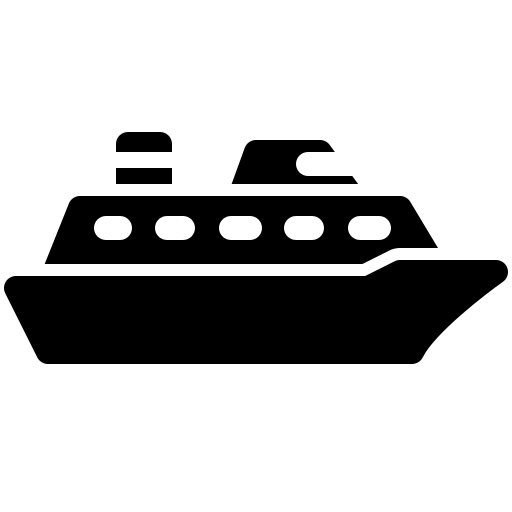
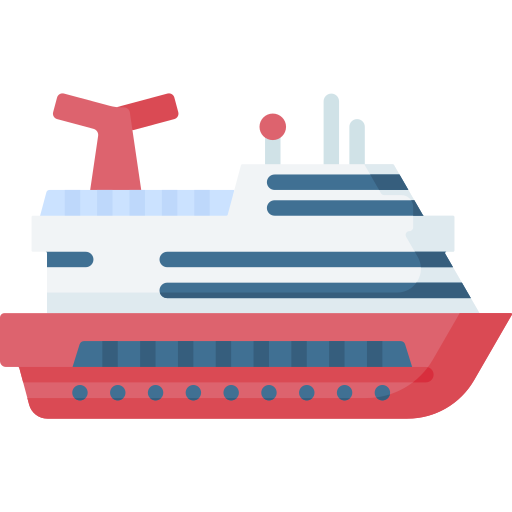
se agrega imagen

diff --git a/src/view/JuegoVsComputadora/JuegoVsComputadora.jsx b/src/view/JuegoVsComputadora/JuegoVsComputadora.jsx
@@ -9,6 +9,11 @@ import BarcoForm from "../../components/BarcoForm.jsx";
 import BotonListo from "../../components/BotonList.jsx";
 import {letras, numeros, letrasBarco} from "../../utils/constantes.js";
 import {determinarColorCelda, determinarColorCeldaOculta, ocultarTablero} from "../../utils/utils.js";
+import Lancha from "../../static/lancha.png";
+import Submarino from "../../static/submarino.png";
+import Crucero from "../../static/crucero.png";
+import Portaaviones from "../../static/portaaviones.png";
+import ImagenBarco from "../../components/ImagenBarco.jsx";
 
 const JuegoVsComputadora = () => {
     const juego = useMemo(() => new Juego(), []);
@@ -149,6 +154,10 @@ const JuegoVsComputadora = () => {
     return (
         <>
             <HeaderNavigation />
+            <ImagenBarco src={Portaaviones} alt="Portaaviones" />
+            <ImagenBarco src={Crucero} alt="Crucero" />
+            <ImagenBarco src={Submarino} alt="Submarino" />
+            <ImagenBarco src={Lancha} alt="Lancha" />
             <BarcoForm
                 onSubmit={handlePortaviones}
                 fila={filaPortaviones}

diff --git a/src/components/ImagenBarco.jsx b/src/components/ImagenBarco.jsx
@@ -1,0 +1,18 @@
+import React from 'react';
+
+const ImagenBarco = ({ src, alt }) => {
+    const estiloImagen = {
+        width: '50px',  // Puedes ajustar el tamaño según tus necesidades
+        height: '50px', // Puedes ajustar el tamaño según tus necesidades
+    };
+
+    return (
+        <img
+            src={src}
+            alt={alt}
+            style={estiloImagen}
+        />
+    );
+};
+
+export default ImagenBarco;
